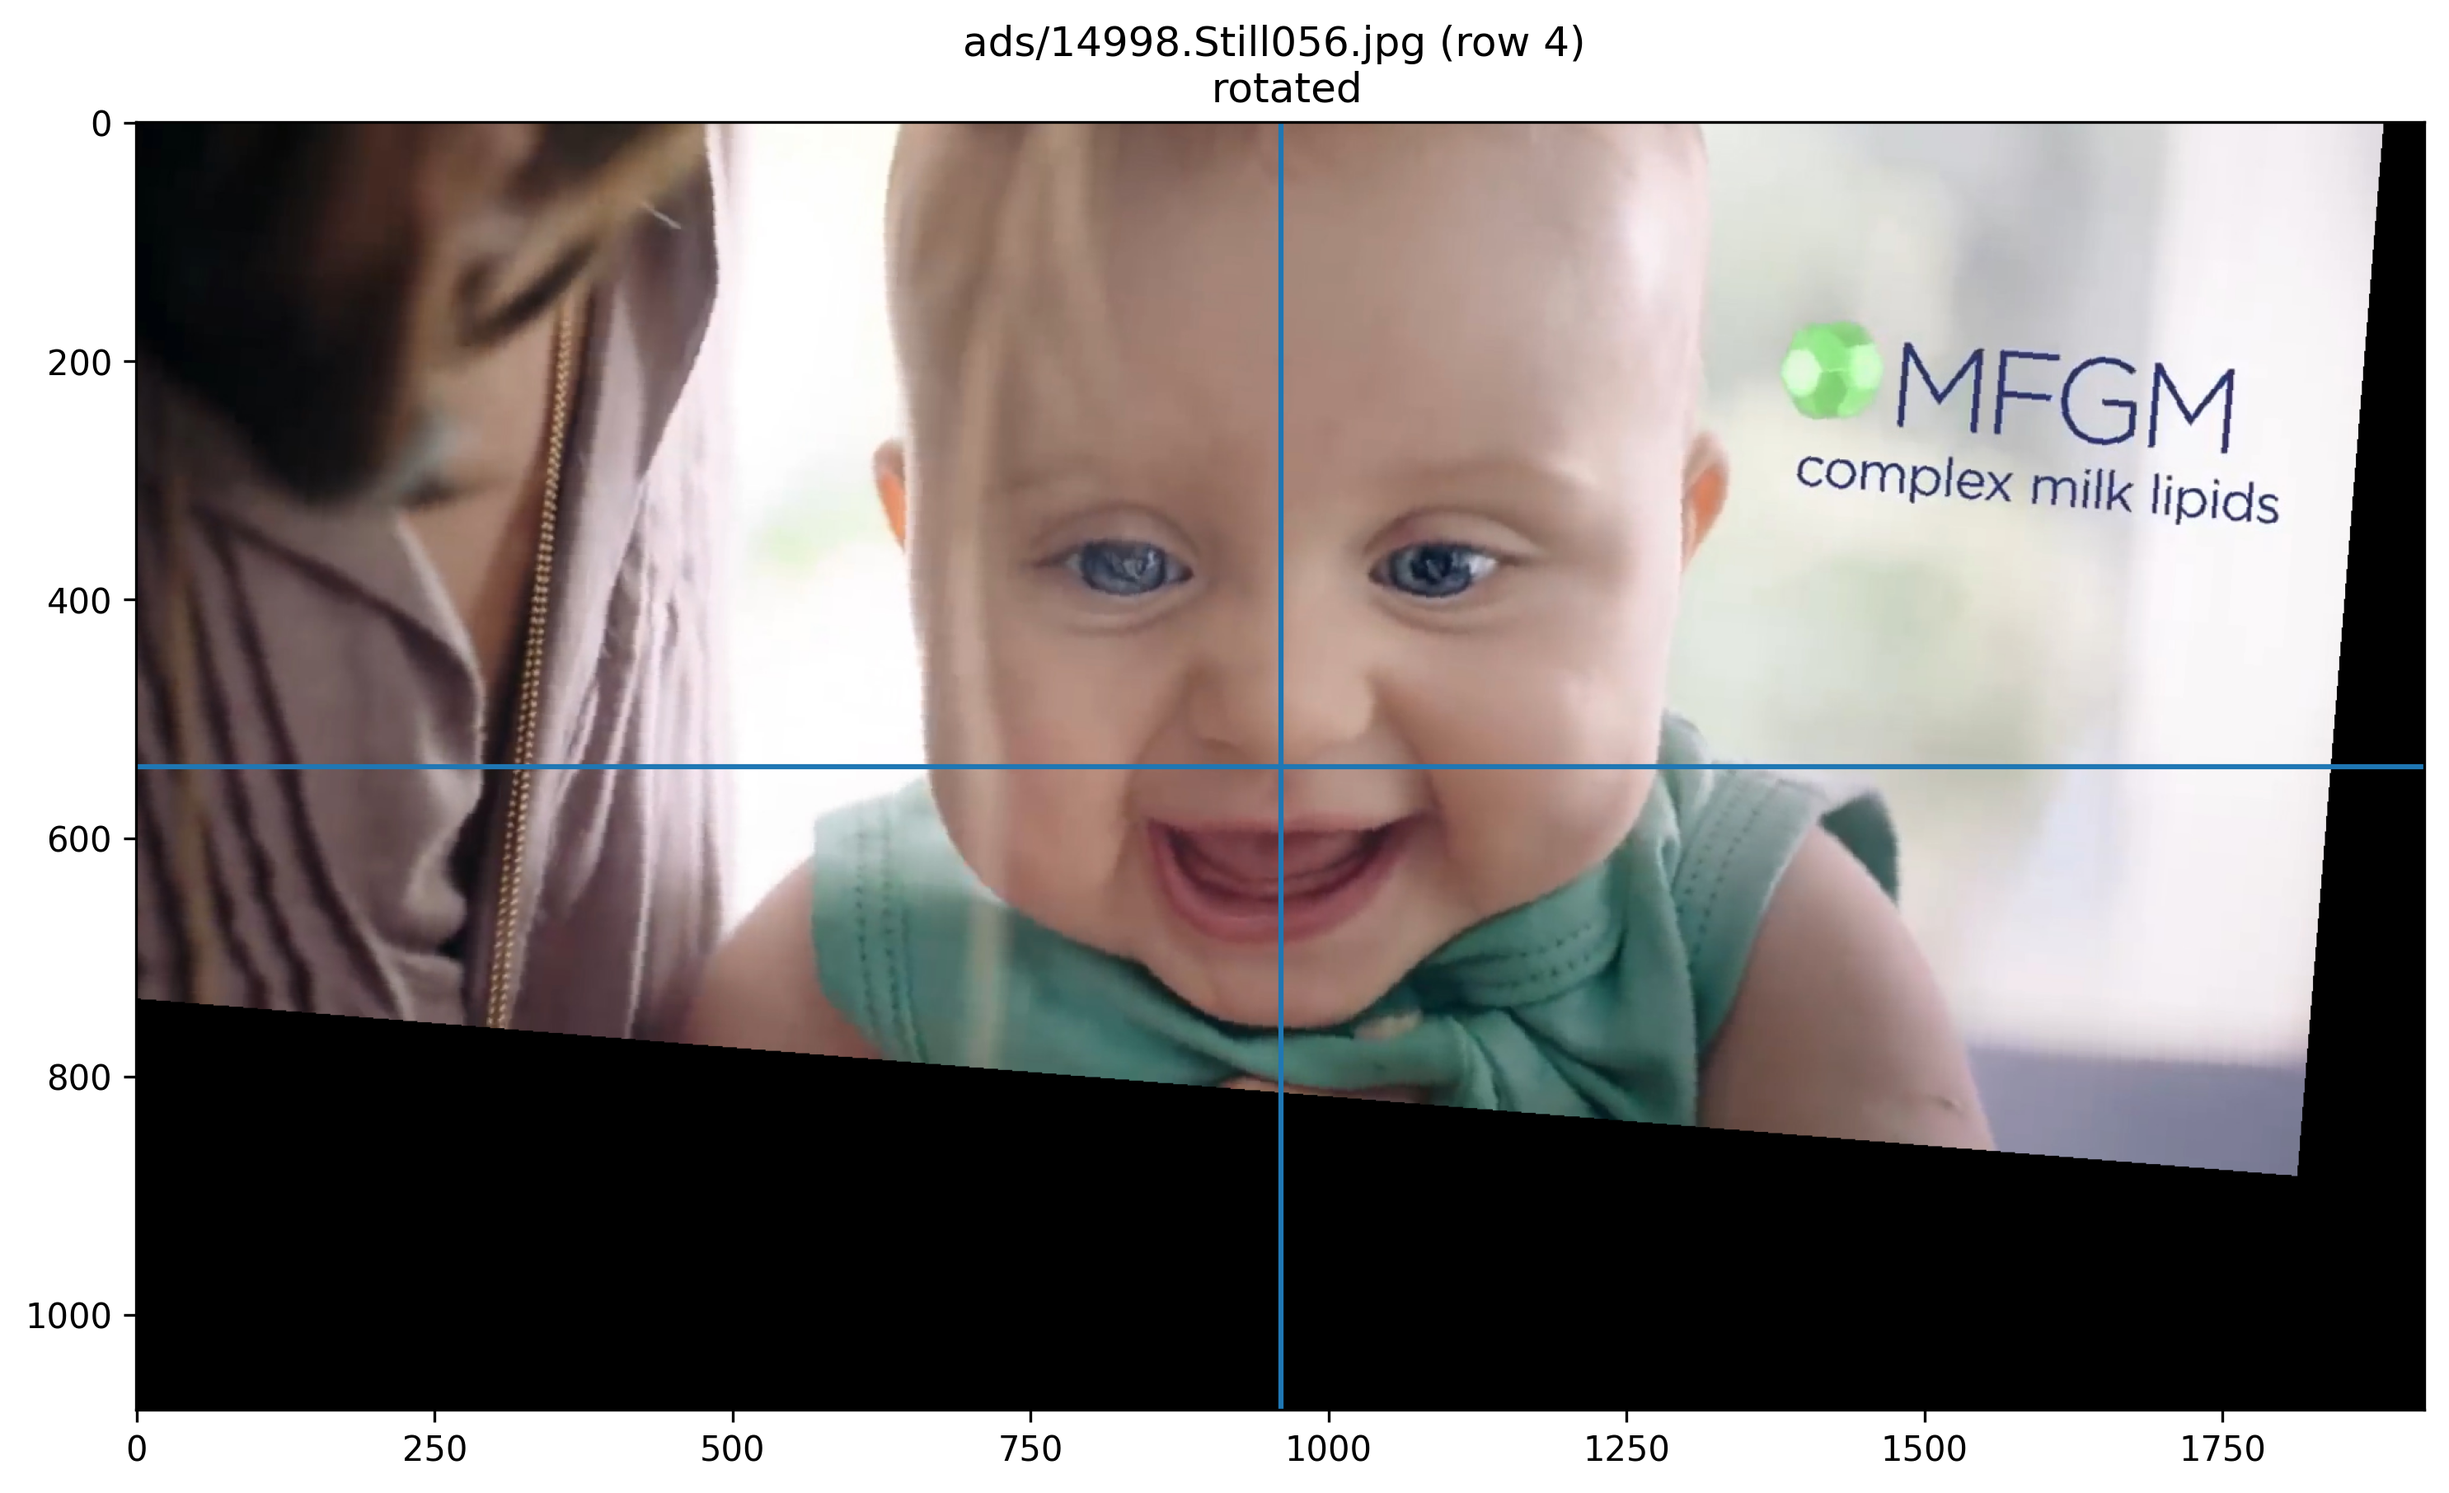
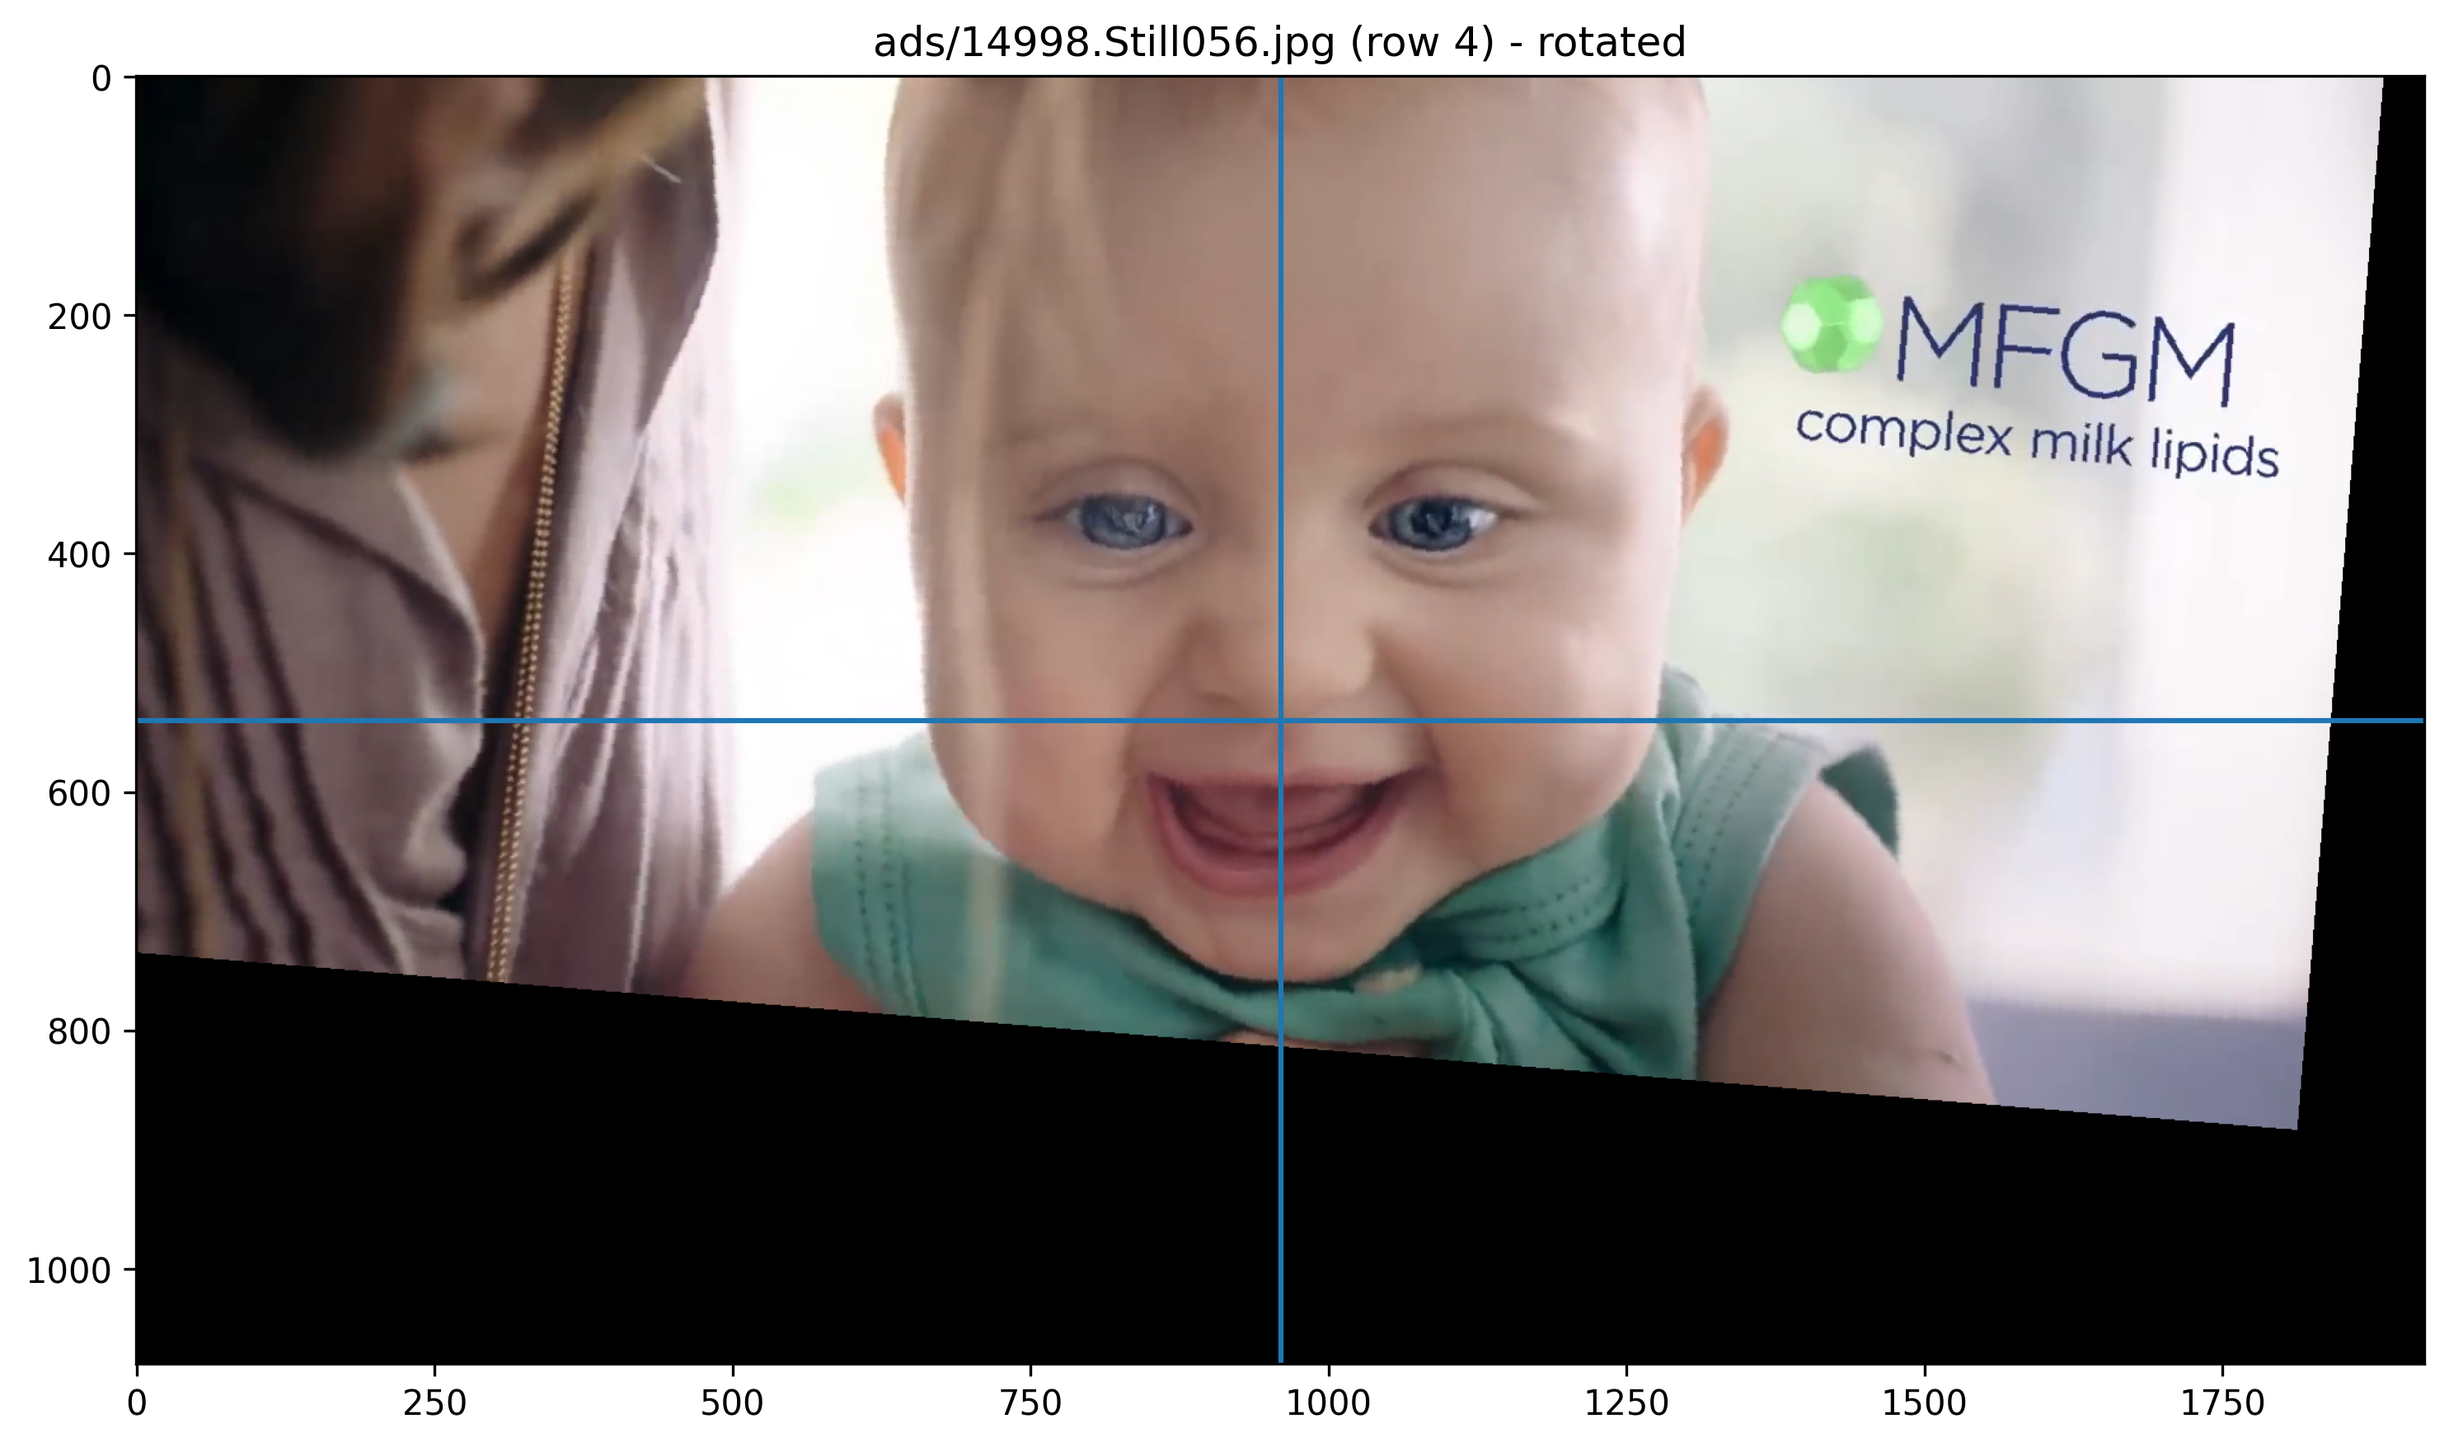
more cleanup/documentation

diff --git a/src/util/plot.py b/src/util/plot.py
@@ -41,6 +41,7 @@ def fix_axes(X,Y,ax,flip_y=True):
     
 def plot_image(
         anno,
+        subtitle=None,
         scatter_points=None,
         ref_point=None,
         annotate=None,
@@ -55,6 +56,8 @@ def plot_image(
     ----------
     anno : AnnoImg
         The image to render.
+    subtitle : list of str, optional
+        Additional lines of text below the title. The default is None.
     scatter_points : list of int
         Landmark indices to print (excldues unlisted landmarks).
         The default is None.
@@ -72,7 +75,7 @@ def plot_image(
         True to include blue crosshairs at image center.
         The default is False.
     grayscale : bool
-        True to convert image to grayscale (using default colormap'viridis').
+        True to convert image to grayscale (using default colormap 'viridis').
         The default is False.
     skip_img : bool
         True to skip raw image data. The default is False.
@@ -88,8 +91,10 @@ def plot_image(
     image_set = anno.image_set
     filename = anno.filename
     desc = f' (row {anno.row_id})' if anno.row_id is not None else ''
-    if len(anno.desc):
-        desc = ' \n '.join([desc, *anno.desc])
+    if anno.desc:
+        desc += f' - {", ".join(anno.desc)}'
+    if subtitle:
+        desc = ' \n '.join([desc, *subtitle])
     title = f'{image_set}/{filename}' + desc
     X = anno.get_x()
     Y = anno.get_y()

diff --git a/src/plot_roll_yaw.py b/src/plot_roll_yaw.py
@@ -9,15 +9,11 @@ Created on Sun Nov 13 20:08:59 2022
 import matplotlib.pyplot as plt
 
 # project
-from util.local_cache import cache
+from util import meta_cache
 from util.pre import to_deg
 
-savefig = False
 
-df = cache.get_meta('decorated')
-
-
-def plot(use_abs=False,savefig=False):
+def plot(df, use_abs=False, save_fig=False):
     label_pre = 'absolute ' if use_abs else ''
     col_suff = '_abs' if use_abs else ''
     tilt = df['tilted'] == 1
@@ -40,7 +36,7 @@ def plot(use_abs=False,savefig=False):
             # c=color,
             marker='x' if desc == 'both' else 'o',
             label=desc,
-            edgecolors=color,
+            edgecolors=None if desc == 'both' else color,
             facecolors='none' if desc == 'neither' else color,
             # marker='$O$' if desc == 'neither' else 'o',
         )
@@ -61,14 +57,16 @@ def plot(use_abs=False,savefig=False):
         borderaxespad=0.,
     )
     plt.tight_layout()
-    if savefig:
+    if save_fig:
         plt.savefig(f'figs/roll_yaw{col_suff}.png', dpi=300, bbox_inches='tight')
     plt.show()
 
 
 def main():
-    plot(savefig=savefig)
-    plot(use_abs=True,savefig=savefig)
+    save_fig = False
+    df = meta_cache.get_meta('baby')
+    plot(df, save_fig=save_fig)
+    plot(df, use_abs=True, save_fig=save_fig)
 
 
 if __name__ == '__main__':

diff --git a/src/logreg_4_pred.py b/src/logreg_4_pred.py
@@ -120,12 +120,13 @@ for pp in [
     test_df = pd.DataFrame(X_test, columns=pp)
     test_df[target] = y_test
     test_df[f'{target}_hat'] = y_hat
+    scatter_cols = ['boxratio', 'yaw_abs']
     scatter(
         f'Logistic Regression - baby vs {", ".join(pp)} \n '
             f'score: {score:.3f}',
-        f'scatter_boxratio_vs_yaw.png',
+        f'scatter_{" vs ".join(scatter_cols)}.png',
         tmp, # test_df,
-        ['boxratio', 'yaw_abs'],
+        scatter_cols,
         target,
         target_name='Baby',
         alt_name='Adult',

diff --git a/src/big_yaw.py b/src/big_yaw.py
@@ -21,11 +21,11 @@ for i in range(10):
     row = unlabeled.iloc[i]
     row_id = unlabeled.index[i]
     anno = meta_cache.get_image(row_id, baby=True)
-    anno.desc = [
-        f'{to_deg * row["yaw_abs"]:.2f} degrees estimated yaw',
-        'not labeled "tilted" nor "turned"',
-    ]
     plot_image(
         anno,
         save_fig=save_fig,
+        subtitle=[
+            f'{to_deg * row["yaw_abs"]:.2f} degrees estimated yaw',
+            'not labeled "tilted" nor "turned"',
+        ],
     )

diff --git a/src/angle_labels_logreg.py b/src/angle_labels_logreg.py
@@ -15,8 +15,6 @@ from sklearn.model_selection import train_test_split
 # project
 from util import meta_cache
 
-df = meta_cache.get_meta('baby')
-
 
 def eg_logreg(df, pred, target):
     X = df[pred]
@@ -51,6 +49,8 @@ def eg_logreg(df, pred, target):
     dummy_score = accuracy_score(y_test, dummy_y_hat)
     print(f'\tdummy score: {dummy_score:.3f}')
 
+
+df = meta_cache.get_meta('baby')
 
 # test logistic regression with random predictor
 # tmp = df.copy()

diff --git a/src/util/meta_cache.py b/src/util/meta_cache.py
@@ -124,7 +124,7 @@ class MetaCache:
         (in the data directory) the image metadata from the adult and baby
         datasets and renames all landmark columns to standard names:
          * baby "ground truth" landmarks: 'gt-{dim}{index}' -> '{dim}{index}
-         * adult "original" landmakrs: 'original_{index}_{dim}' -> '{dim}{index}
+         * adult "original" landmarks: 'original_{index}_{dim}' -> '{dim}{index}
 
         Returns
         -------
